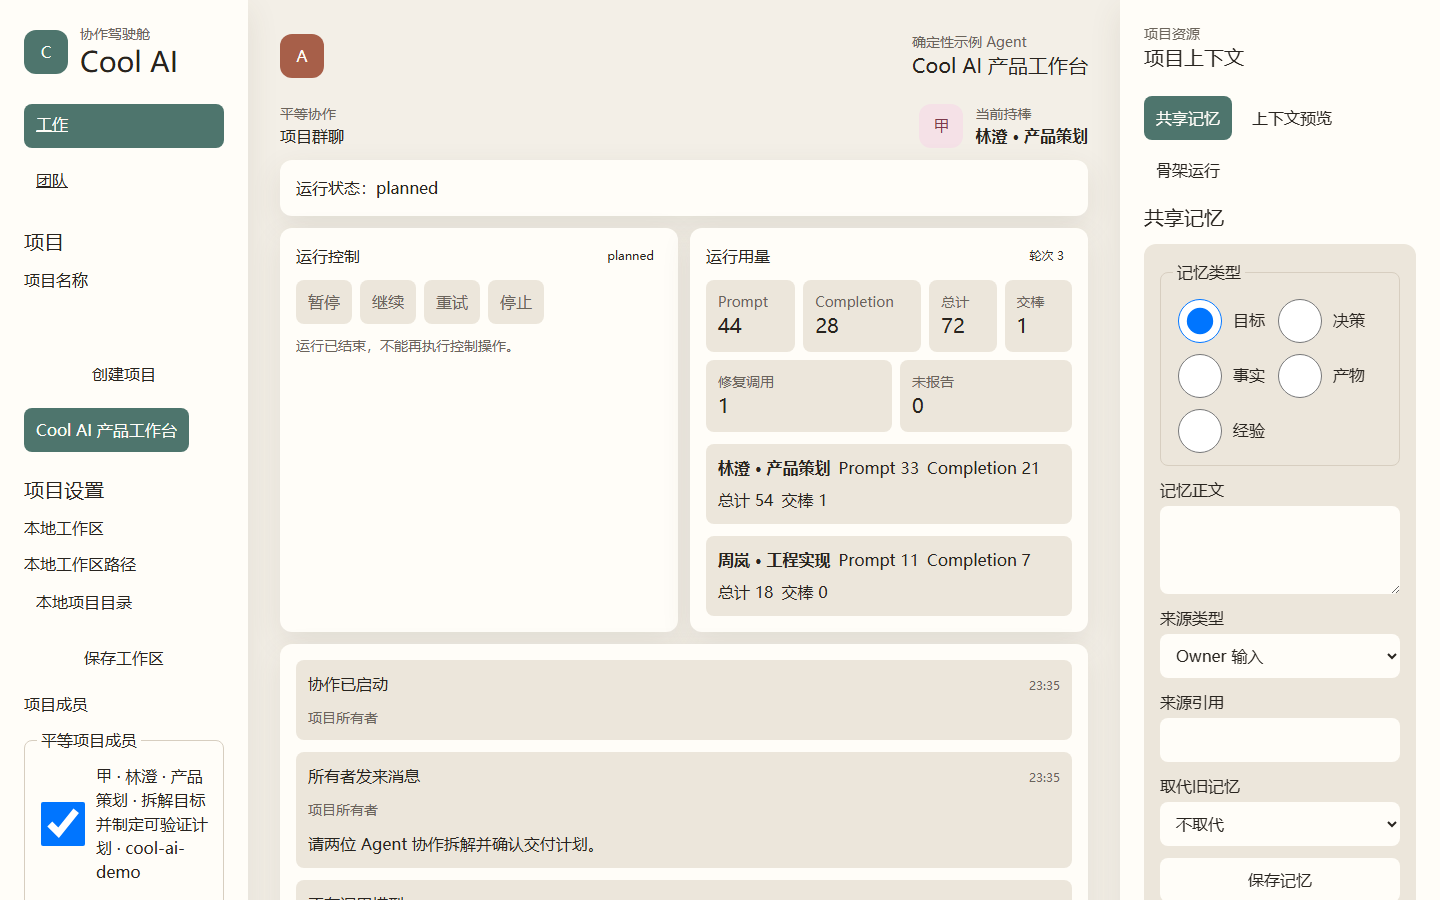
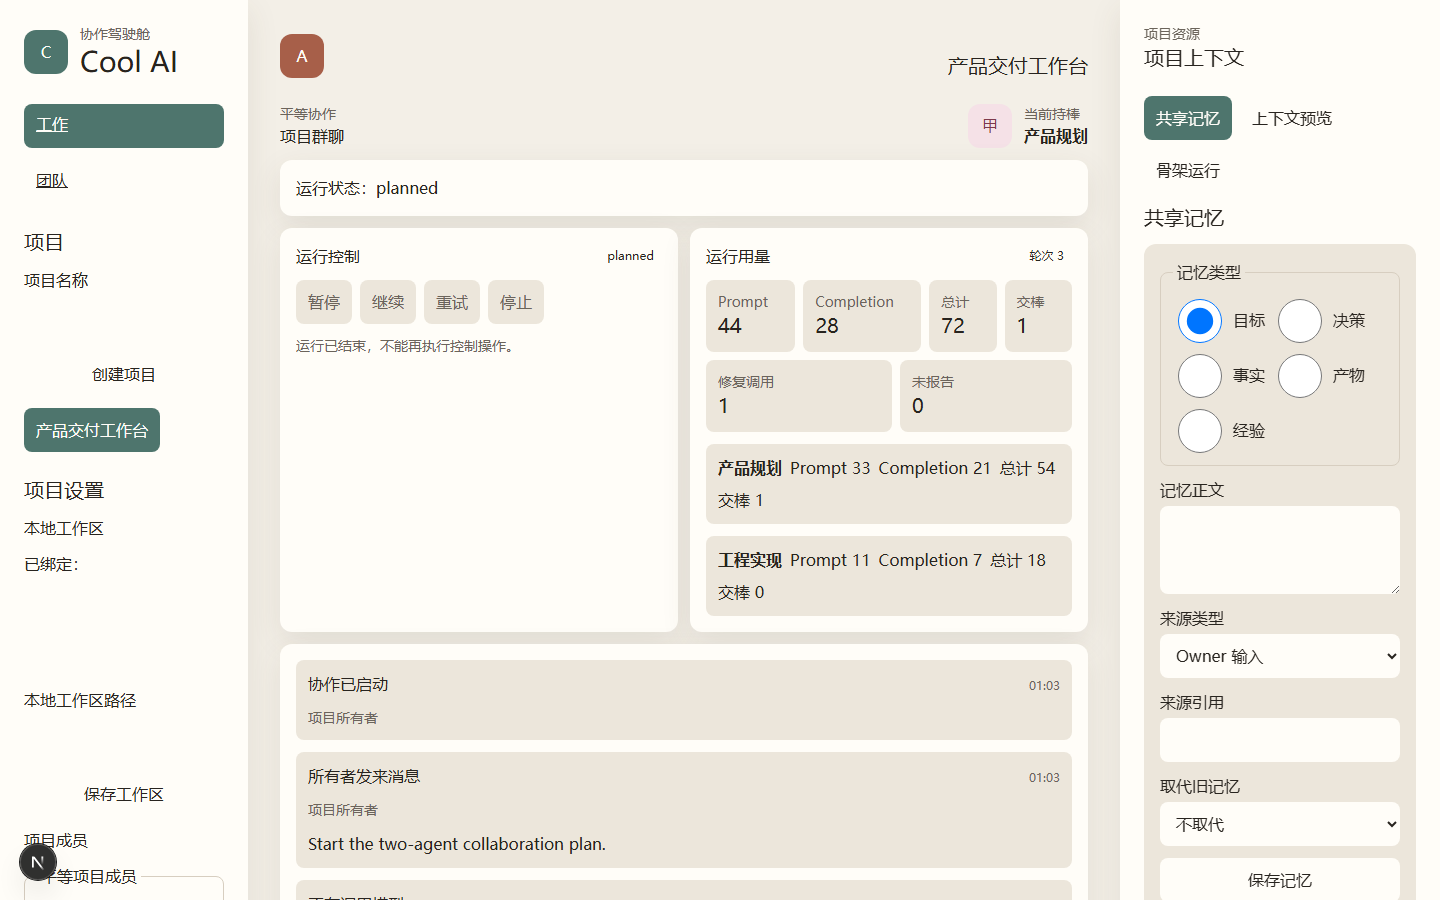
闭合 S-7 文档评审并完成交付
修正公开产品图与说明，移除 fixture 信息，并以专项验证和独立复审完成文档验收。

diff --git a/features/007-project-documentation/reviews/code-review.md b/features/007-project-documentation/reviews/code-review.md
@@ -1,0 +1,59 @@
+# 实现评审 (第 1 轮)
+
+- 日期: 2026-08-02
+- 评审方式: subagent
+- 结论: 需修改
+
+## Findings
+
+- [一般] `docs/images/cool-ai-review-delivery.png`、`docs/images/cool-ai-safe-execution.png`、`docs/images/cool-ai-team-configuration.png` 及中英文 README 对应图片说明：截图与正文声明不匹配。复核图约一半画布为空且正文缩得很小，只展示“复核”面板，没有展示说明所称的记忆与最终交付；安全执行图只展示验证和一次性审批，没有展示说明所称的 staged 变更；团队配置图只展示 Agent 列表与空白“创建 Agent”表单，没有展示说明所称的 Provider 与技能配置。新用户无法从这些图验证完整工作流。→ 重新构图并逐图覆盖说明承诺的内容；如单图无法清晰覆盖，应拆图或收窄说明，确保关键文字在 README 常见宽度下可读。
+- [一般] `docs/images/cool-ai-cockpit-overview.png`、`docs/images/cool-ai-team-configuration.png`、`docs/images/cool-ai-review-delivery.png`：公开截图仍暴露明显的 fixture/内部审计数据，包括“确定性示例 Agent”、`cool-ai-demo`、冻结材料短哈希和 checkpoint 短哈希；这不满足 S-7 backlog 的“不含测试数据”展示判据，也降低了截图的公开可理解性。→ 使用面向产品展示的固定演示名称重新截图，并隐藏或避开 opaque id/hash/checkpoint 等内部值；继续保持无 Smoke、UUID、宿主路径、凭据、loading/error/stale/conflict 状态和 Clowder 资产。
+- [一般] `docs/testing.md:65`：把本切片一次性的 S-7 产品回归豁免写入长期项目测试指南，使公开文档混入 feature 过程状态；这也与同页“所有项目命令以当前 `package.json` 为准”以及 `docs/README.md` 对 `docs/` 和 `features/` 的事实边界不一致。问题不是遵循豁免，而是把临时豁免当作常驻用户文档内容。→ 从 `docs/testing.md` 移除 S-7 专属段落，继续仅在 `features/007-project-documentation/progress.md` 和本评审验证记录中保留“产品测试未运行：用户豁免”。
+
+## 验证
+
+- 完整阅读 `git diff 94fc7a4..HEAD`（26 个文件，Markdown 及 6 张 PNG）和当前未提交的 `progress.md` 变更；`git diff --check 94fc7a4..HEAD` 通过。
+- 独立链接检查：扫描 16 个 Markdown 文件、101 个相对链接，0 个失效链接；未发现公开图片引用 feature evidence。
+- 双语 README：各 10 个二级章节，章节层级、5 张图片及 npm/环境变量命令一致；核心限制均覆盖单 owner、无认证、Provider 外发上下文、Windows x64 + NTFS/ReFS verified execution、非 hostile OS sandbox、最多双路 execution 和无后台 worker。
+- 事实核对：对照 `package.json`、Provider verifier/chat client、credential vault、execution/review Route Handler 与领域服务，确认 `/models`、`/chat/completions`、usage、10/90 秒超时、1 MiB 响应上限、环境变量、脚本、并发/资源限制及复核契约；文档明确说明并非所有 Route Handler 都有全局 parse 前 body cap。
+- PNG 机械检查：6 张图片均为完整 PNG、无文本 metadata；桌面图均为 1440×900，窄屏图为 390×844。
+- 逐图视觉检查：`cool-ai-cockpit-overview.png` 可辨认三栏驾驶舱但含 fixture 文案；`cool-ai-collaboration-run.png` 可辨认持棒者、usage 与群聊且未见敏感状态；`cool-ai-responsive-narrow.png` 尺寸与窄屏构图合理；`cool-ai-review-delivery.png` 构图失衡、文字过小且含内部 hash；`cool-ai-safe-execution.png` 可见验证与审批但未见 staged 变更；`cool-ai-team-configuration.png` 可见 Agent 列表但未见 Provider/技能配置。6 图未见 Smoke、完整 UUID、宿主路径、凭据、loading/error/stale/conflict 状态或 Clowder 品牌/猫资产。
+- 风险档位核对：实际 diff 仅涉及 Markdown、静态 PNG、product 台账和 feature 工件，无 product code、数据或 API 变更；档位 1 仍合理。
+- 产品测试未运行：用户豁免。
+
+# 实现评审 (第 2 轮)
+
+- 日期: 2026-08-02
+- 评审方式: subagent
+- 结论: 需修改
+
+## Findings
+
+- [一般] 第 1 轮第 2 项未完全闭合，`docs/images/cool-ai-team-configuration.png`：虽然 `确定性示例 Agent`、`cool-ai-demo` 已移除，截图仍以“演示模型服务”和 `demo-model` 作为两名 Agent 的 Provider/model 展示值，仍是明显的 fixture 命名，不满足原 finding 要求的“面向产品展示的固定演示名称”。→ 将这两个展示值替换为不带 `demo`/测试语义的产品化固定名称并重新截图；其余已闭合部分不需返工。
+
+## 验证
+
+- 第 1 轮第 1 项已闭合：team 图清晰展示两名 Agent 的不同职责、技能、权限和独立复核能力；safe 图清晰展示双 Agent、验证结果与一次性审批；review 图清晰展示独立复核者、`pass` 裁决和最终交付摘要。当前中英文 README summary/alt 已同步收窄并与画面匹配，文字和构图足以理解。
+- 第 1 轮第 2 项部分闭合：cockpit 图已无 `确定性示例 Agent`、`cool-ai-demo` 或内部 hash；review 图已隐藏 result/review/diff/memory 标识且无冻结材料/checkpoint hash。safe 图保留的 stdout/stderr hash 是验证审计信息，既不是该 finding 指向的截图，也未以测试 fixture 为视觉主体，不构成未闭合项。team 图仍有上述 fixture 命名。
+- 第 1 轮第 3 项已闭合：`docs/testing.md` 已移除 S-7 一次性产品回归豁免段落。
+- 独立专项验证通过：扫描 16 个 Markdown 文件，所有相对链接可解析；中英文 README 的章节数、图片目标、npm 命令和环境变量契约一致。
+- PNG 专项验证通过：6 张图片均为有效 PNG；5 张桌面图为 1440×900，窄屏图为 390×844。
+- 产品测试未运行：用户豁免。
+
+# 实现评审 (第 3 轮)
+
+- 日期: 2026-08-02
+- 评审方式: subagent
+- 结论: 通过
+- 用户确认: auto-approved 2026-08-02
+
+## Findings
+
+无（第 2 轮唯一未闭合项已闭合）。
+
+## 验证
+
+- 独立读取 `docs/images/cool-ai-team-configuration.png`：原“演示模型服务”已替换为自然展示名称“本地模型服务”，原 `demo-model` 已替换为 `product-chat-model`。
+- 图片可见内容未出现新的 `demo`、`test`、`smoke` 或 `fixture` 命名；两名 Agent 的 Provider/model 展示值一致且可理解。
+- 文件检查通过：PNG 签名有效，尺寸 1440×900，无文本 metadata。
+- 产品测试未运行：用户豁免。

diff --git a/product/assumptions.md b/product/assumptions.md
@@ -70,4 +70,4 @@ agent 替用户做的默认选择。遇到欠定点的标准动作: 提出带默
 - A-63 2026-08-01 [已确认] work item 的复核有效状态在任一时刻唯一为执行中、待复核、复核中、待返工、待 owner、已通过完成之一；使命唯一为进行中、交付生成中、已完成或 owner 终止之一，所有既有与新增写入口及重放都必须服从同一完成门槛，不能直接把未通过任务或交付未生成使命写成完成 — 默认理由: 使命看板是唯一事实源，完成权不能因旧入口、重放或 UI 路径不同而分叉
 - A-64 2026-08-01 [已确认] S-6 自动记忆候选由实际 review Agent 提议并署名，由其三选一裁决确认，平台只负责验证和持久化而不冒充业务作者；每条来源精确绑定同项目的 task、result、review、validation 或 artifact 身份与版本并可导航，既有 owner 创建条目继续保留 owner actor 与原来源语义 — 默认理由: 让五类记忆的作者责任和历史来源可审计，同时兼容 S-3 已存在的 owner 条目
 - A-65 2026-08-01 [已确认] S-6 记忆只在同项目内按“类型 + 去除正文首尾空白后的正文（内部 Unicode 字符/code point 原样保留，不做规范等价或大小写折叠）+ source type + source id + source version”全等时复用 active 条目；取代必须显式指向同类型唯一 active 前版，补充内容、跨类型、不同来源版本及历史失效条目都不自动合并或误替代 — 默认理由: 不引入相似度阈值即可为重试、并发和版本历史提供可观察、确定的去重判据
-- A-66 2026-08-02 [生效] S-7 的 `README.md` 使用英文、`README.zh-CN.md` 使用简体中文且信息密度一致，`docs/` 以中文为主；产品图由固定演示数据重新生成并放入受 Git 跟踪的 `docs/images/`，不复制 Clowder AI 资产，也不引用被忽略的 feature evidence — 默认理由: 同时服务国际入口与当前中文用户，并让公开图片可版本化且不暴露验收数据
+- A-66 2026-08-02 [已确认] S-7 的 `README.md` 使用英文、`README.zh-CN.md` 使用简体中文且信息密度一致，`docs/` 以中文为主；产品图由固定演示数据重新生成并放入受 Git 跟踪的 `docs/images/`，不复制 Clowder AI 资产，也不引用被忽略的 feature evidence — 默认理由: 同时服务国际入口与当前中文用户，并让公开图片可版本化且不暴露验收数据

diff --git a/features/007-project-documentation/progress.md b/features/007-project-documentation/progress.md
@@ -1,9 +1,18 @@
 # 进度
 
 - 特性: 007-project-documentation（对应切片: S-7）
-- 当前阶段: build
-- 执行模式: interactive
+- 当前阶段: done
+- 执行模式: auto
 - 已加载扩展: 无（不修改产品 UI；仅生成文档内产品截图）
-- 下一步: 生成固定演示数据产品截图
-- 门禁输出: RESULT: PASS — 可进入 build
-- 用户豁免: 基线与回归产品测试 2026-08-02；仅执行文档与图片专项验证
+- 下一步: 切片已完成；等待用户决定是否推送或提出下一切片
+- 门禁输出: RESULT: FAIL (1 项未通过) — tier-1 机械门禁要求 RED/GREEN；用户豁免后以 suite/smoke/demo 专项验证、独立评审与 demo 验收收尾
+- 用户豁免: 基线、回归产品测试及纯文档 RED/GREEN 机械门禁 2026-08-02；仅执行文档与图片专项验证
+
+## 交付摘要
+
+- 交付内容: 中英文根 README、14 篇中文项目文档和 6 张可公开使用的真实产品截图
+- 需求闭合: 文档导航、完整工作流、平台/安全边界、快速开始、双语一致性与产品图全部验收通过
+- 证据索引: `baseline-diagnostic-20260802T143252Z.log`、`suite-20260802T162132Z.log`、`smoke-20260802T162132Z.log`、`demo-20260802T162132Z.log`、`t1-review-fix-validate-final-20260802T170358Z.log`
+- 主要变更: `README.md`、`README.zh-CN.md`、`docs/**/*.md`、`docs/images/*.png`
+- 产品层回写: S-7 已完成；A-66 已确认并迁入 D-17
+- 遗留事项: 产品测试、构建与普通代码任务 RED/GREEN 按用户明确豁免未运行；机械 ship gate 因该项保持 FAIL，未伪造测试证据

diff --git a/product/backlog.md b/product/backlog.md
@@ -10,4 +10,4 @@
 - [x] S-4 在群聊发起使命并观察自主编排 — 演示判据: owner 在项目群聊提交真实目标后，至少两个 Agent 通过真实模型调用拆分带依赖的子任务、领取任务并结构化交棒；owner 可发言、@Agent、回答决策请求，并看到当前持棒者、用量和完整时间线
 - [x] S-5 并行且安全地执行项目工作 — 演示判据: 两名 Agent 能并行处理独立子任务，在绑定工作区产出隔离变更并按需运行验证；平台阻止重复接力、失效结果、预算越限和未合并冲突，越界或高风险动作只有 owner 批准后才能继续
 - [x] S-6 同伴复核、沉淀记忆并交付结果 — 演示判据: 非执行者 Agent 能复核各子任务并决定退回、升级或通过；通过后关键决策、事实、产物和经验进入共享记忆，owner 获得最终摘要与证据，应用重启后仍可追溯完整历史
-- [ ] S-7 完善项目文档与产品展示 — 演示判据: 新用户能通过中英文 README 和中文 docs 准确理解产品定位、平台与安全边界、完整工作流和本地启动方式，并能查看不含测试数据、宿主路径或加载态的真实产品截图
+- [x] S-7 完善项目文档与产品展示 — 演示判据: 新用户能通过中英文 README 和中文 docs 准确理解产品定位、平台与安全边界、完整工作流和本地启动方式，并能查看不含测试数据、宿主路径或加载态的真实产品截图

diff --git a/README.md b/README.md
@@ -31,7 +31,7 @@ Building with multiple Agents often turns the owner into a human router: copying
 <details>
 <summary>See team configuration</summary>
 
-![Provider, skill, and Agent configuration](docs/images/cool-ai-team-configuration.png)
+![Two Agents with distinct roles, skills, permissions, and independent-review capability](docs/images/cool-ai-team-configuration.png)
 </details>
 
 <details>
@@ -43,13 +43,13 @@ Building with multiple Agents often turns the owner into a human router: copying
 <details>
 <summary>See safe execution</summary>
 
-![Isolated execution, approval, validation, and staged changes](docs/images/cool-ai-safe-execution.png)
+![Two-Agent execution with validation and one-shot approval](docs/images/cool-ai-safe-execution.png)
 </details>
 
 <details>
 <summary>See review and delivery</summary>
 
-![Independent review, source-linked memory, and final delivery](docs/images/cool-ai-review-delivery.png)
+![Independent reviewer, pass verdict, and final delivery summary](docs/images/cool-ai-review-delivery.png)
 </details>
 
 ## Platform and security boundaries

diff --git a/product/decisions.md b/product/decisions.md
@@ -19,3 +19,4 @@
 - D-14 2026-08-02 work item 与 mission 采用唯一有效状态和统一完成门槛，任务全部独立通过且最终交付持久化后使命才完成 — 依据: S-6 完成门槛与交付 demo 验收确认 A-63
 - D-15 2026-08-02 自动记忆由实际 review Agent 提议并署名，精确绑定 task/result/review/validation/artifact 版本，平台只负责验证持久化 — 依据: S-6 记忆来源导航 demo 验收确认 A-64
 - D-16 2026-08-02 共享记忆按类型、trim 后原码点正文及精确来源 tuple 全等去重；知识替代必须显式形成同类型不可变 supersedes 链 — 依据: S-6 记忆复用与历史测试确认 A-65
+- D-17 2026-08-02 对外文档采用英文根 README、同等信息密度的简体中文 README 与中文 `docs/`；公开产品图使用仓库内固定演示数据资产，Clowder AI 仅作为文档结构参考 — 依据: S-7 双语入口、产品图与文档导航 demo 验收确认 A-66

diff --git a/README.zh-CN.md b/README.zh-CN.md
@@ -31,7 +31,7 @@
 <details>
 <summary>查看团队配置</summary>
 
-![Provider、技能与 Agent 配置](docs/images/cool-ai-team-configuration.png)
+![两名 Agent 的不同职责、技能、权限与独立复核能力](docs/images/cool-ai-team-configuration.png)
 </details>
 
 <details>
@@ -43,13 +43,13 @@
 <details>
 <summary>查看安全执行</summary>
 
-![隔离执行、审批、验证与 staged 变更](docs/images/cool-ai-safe-execution.png)
+![双 Agent 执行中的验证与一次性审批](docs/images/cool-ai-safe-execution.png)
 </details>
 
 <details>
 <summary>查看复核与交付</summary>
 
-![独立复核、有来源记忆与最终交付](docs/images/cool-ai-review-delivery.png)
+![独立复核者、pass 裁决与最终交付摘要](docs/images/cool-ai-review-delivery.png)
 </details>
 
 ## 平台与安全边界

diff --git a/docs/testing.md b/docs/testing.md
@@ -62,6 +62,4 @@ npm run smoke:review
 
 HarnessFlow 开发阶段的测试/build/smoke/demo 必须通过 gate runner 生成机器 evidence；不要手写或编辑 evidence 日志。各切片的规格、任务、评审和证据边界见 [`features/`](../features/)。
 
-S-7“项目文档与产品展示”当前获得了产品回归测试豁免，因此本切片只检查 Markdown 链接、双语一致性、图片和真实渲染，不运行 `npm test`。这是本切片因已知环境基线而作的明确例外，**不是**项目常规规范，也不免除后续产品代码变更的测试、构建、smoke、评审和 demo 要求。
-
 故障处理见[故障排查](./troubleshooting.md)。

diff --git a/features/007-project-documentation/reviews/demo-acceptance.md b/features/007-project-documentation/reviews/demo-acceptance.md
@@ -1,0 +1,10 @@
+# Demo 验收 (S-7 / 项目文档与产品展示)
+
+- 日期: 2026-08-02
+- 演示物: `evidence/demo-20260802T162132Z.log`；仓库根 `README.md` / `README.zh-CN.md` → `docs/README.md` → `docs/images/*.png`
+- 结论: 接受
+- 用户确认: auto-approved 2026-08-02（用户要求连续完成全部待办）
+
+## 反馈
+
+无。产品图、双语入口、中文文档导航、快速开始、平台与安全边界均已通过专项验证和独立评审。
